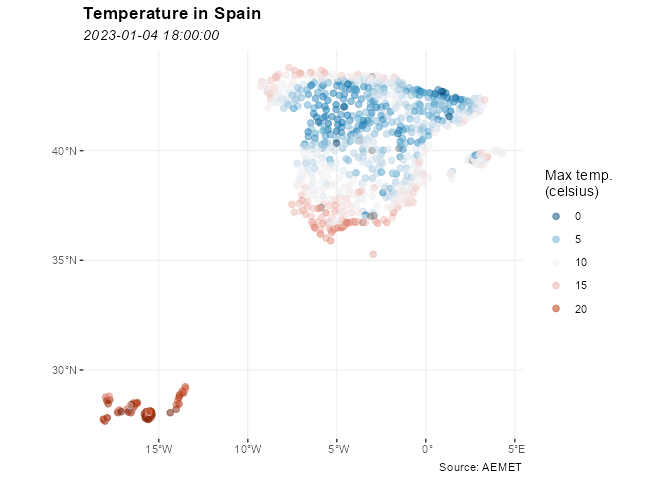
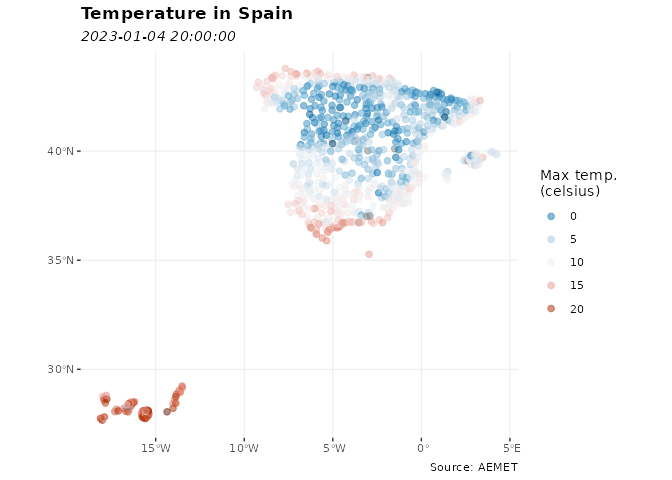
Update docs with pkgdev

diff --git a/README.md b/README.md
@@ -121,20 +121,20 @@ library(climaemet)
 # See a tibble in action
 
 aemet_last_obs("9434")
-#> # A tibble: 24 × 25
+#> # A tibble: 23 × 25
 #>    idema   lon fint                 prec   alt  vmax    vv    dv   lat  dmax
 #>    <chr> <dbl> <dttm>              <dbl> <dbl> <dbl> <dbl> <dbl> <dbl> <dbl>
-#>  1 9434  -1.00 2023-01-04 18:00:00     0   249   2.2   0.7   206  41.7   243
-#>  2 9434  -1.00 2023-01-04 19:00:00     0   249   1.8   0.8   218  41.7   188
-#>  3 9434  -1.00 2023-01-04 20:00:00     0   249   1.5   0.4    33  41.7    78
-#>  4 9434  -1.00 2023-01-04 21:00:00     0   249   3.5   0.7   284  41.7   243
-#>  5 9434  -1.00 2023-01-04 22:00:00     0   249   1.2   0.5   318  41.7   263
-#>  6 9434  -1.00 2023-01-04 23:00:00     0   249   0.7   0.4    64  41.7    98
-#>  7 9434  -1.00 2023-01-05 00:00:00     0   249   1.2   0.8   208  41.7   218
-#>  8 9434  -1.00 2023-01-05 01:00:00     0   249   1.4   1     158  41.7   158
-#>  9 9434  -1.00 2023-01-05 02:00:00     0   249   1.7   1.2   116  41.7   125
-#> 10 9434  -1.00 2023-01-05 03:00:00     0   249   2.2   1.3   103  41.7   108
-#> # … with 14 more rows, and 15 more variables: ubi <chr>, pres <dbl>, hr <dbl>,
+#>  1 9434  -1.00 2023-01-04 20:00:00     0   249   1.5   0.4    33  41.7    78
+#>  2 9434  -1.00 2023-01-04 21:00:00     0   249   3.5   0.7   284  41.7   243
+#>  3 9434  -1.00 2023-01-04 22:00:00     0   249   1.2   0.5   318  41.7   263
+#>  4 9434  -1.00 2023-01-04 23:00:00     0   249   0.7   0.4    64  41.7    98
+#>  5 9434  -1.00 2023-01-05 00:00:00     0   249   1.2   0.8   208  41.7   218
+#>  6 9434  -1.00 2023-01-05 01:00:00     0   249   1.4   1     158  41.7   158
+#>  7 9434  -1.00 2023-01-05 02:00:00     0   249   1.7   1.2   116  41.7   125
+#>  8 9434  -1.00 2023-01-05 03:00:00     0   249   2.2   1.3   103  41.7   108
+#>  9 9434  -1.00 2023-01-05 04:00:00     0   249   2.5   1.8   106  41.7   100
+#> 10 9434  -1.00 2023-01-05 05:00:00     0   249   3.2   1.8   110  41.7   108
+#> # … with 13 more rows, and 15 more variables: ubi <chr>, pres <dbl>, hr <dbl>,
 #> #   stdvv <dbl>, ts <dbl>, pres_nmar <dbl>, tamin <dbl>, ta <dbl>, tamax <dbl>,
 #> #   tpr <dbl>, stddv <dbl>, inso <dbl>, tss5cm <dbl>, pacutp <dbl>,
 #> #   tss20cm <dbl>
@@ -174,12 +174,12 @@ knitr::kable(head(data_observation))
 
 | idema |       lon | fint                | prec | alt | vmax |  vv |  dv |      lat | dmax | ubi                 |   pres |  hr | stdvv |  ts | pres_nmar | tamin |  ta | tamax | tpr | stddv | inso | tss5cm | pacutp | tss20cm |
 |:------|----------:|:--------------------|-----:|----:|-----:|----:|----:|---------:|-----:|:--------------------|-------:|----:|------:|----:|----------:|------:|----:|------:|----:|------:|-----:|-------:|-------:|--------:|
-| 9434  | -1.004167 | 2023-01-04 18:00:00 |    0 | 249 |  2.2 | 0.7 | 206 | 41.66056 |  243 | ZARAGOZA AEROPUERTO | 1002.7 |  61 |   0.3 | 5.6 |    1033.7 |   8.7 | 8.7 |  10.6 | 1.7 |    17 |    0 |    9.0 |      0 |     9.4 |
-| 9434  | -1.004167 | 2023-01-04 19:00:00 |    0 | 249 |  1.8 | 0.8 | 218 | 41.66056 |  188 | ZARAGOZA AEROPUERTO | 1002.7 |  67 |   0.2 | 5.1 |    1033.8 |   7.2 | 7.2 |   8.7 | 1.5 |     9 |    0 |    8.3 |      0 |     9.4 |
 | 9434  | -1.004167 | 2023-01-04 20:00:00 |    0 | 249 |  1.5 | 0.4 |  33 | 41.66056 |   78 | ZARAGOZA AEROPUERTO | 1003.0 |  72 |   0.2 | 3.3 |    1034.3 |   6.1 | 6.1 |   7.2 | 1.5 |    27 |    0 |    7.8 |      0 |     9.3 |
 | 9434  | -1.004167 | 2023-01-04 21:00:00 |    0 | 249 |  3.5 | 0.7 | 284 | 41.66056 |  243 | ZARAGOZA AEROPUERTO | 1003.1 |  75 |   0.7 | 3.7 |    1034.4 |   5.5 | 5.5 |   6.3 | 1.5 |    33 |    0 |    7.3 |      0 |     9.2 |
 | 9434  | -1.004167 | 2023-01-04 22:00:00 |    0 | 249 |  1.2 | 0.5 | 318 | 41.66056 |  263 | ZARAGOZA AEROPUERTO | 1003.3 |  77 |   0.2 | 2.9 |    1034.7 |   4.9 | 4.9 |   5.6 | 1.3 |    20 |    0 |    6.9 |      0 |     9.1 |
 | 9434  | -1.004167 | 2023-01-04 23:00:00 |    0 | 249 |  0.7 | 0.4 |  64 | 41.66056 |   98 | ZARAGOZA AEROPUERTO | 1003.2 |  80 |   0.1 | 1.8 |    1034.7 |   4.0 | 4.0 |   4.9 | 0.9 |    46 |    0 |    6.5 |      0 |     8.9 |
+| 9434  | -1.004167 | 2023-01-05 00:00:00 |    0 | 249 |  1.2 | 0.8 | 208 | 41.66056 |  218 | ZARAGOZA AEROPUERTO | 1003.0 |  85 |   0.2 | 2.0 |    1034.6 |   3.2 | 3.2 |   4.0 | 0.9 |     6 |    0 |    6.2 |      0 |     8.7 |
+| 9434  | -1.004167 | 2023-01-05 01:00:00 |    0 | 249 |  1.4 | 1.0 | 158 | 41.66056 |  158 | ZARAGOZA AEROPUERTO | 1002.7 |  85 |   0.2 | 1.2 |    1034.3 |   2.9 | 2.9 |   3.2 | 0.6 |    11 |    0 |    5.9 |      0 |     8.6 |
 
 ``` r
 
